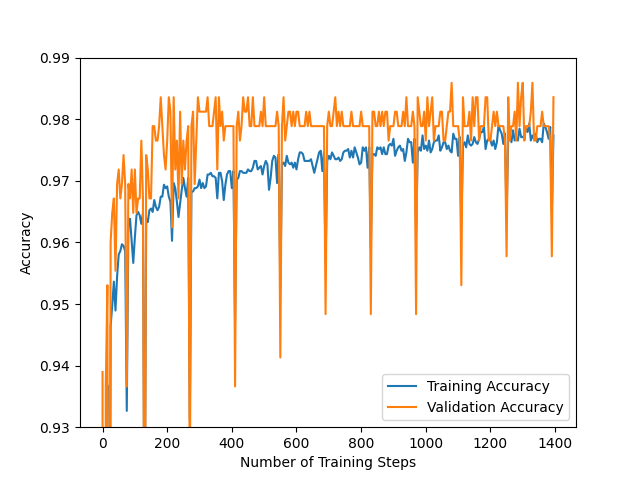
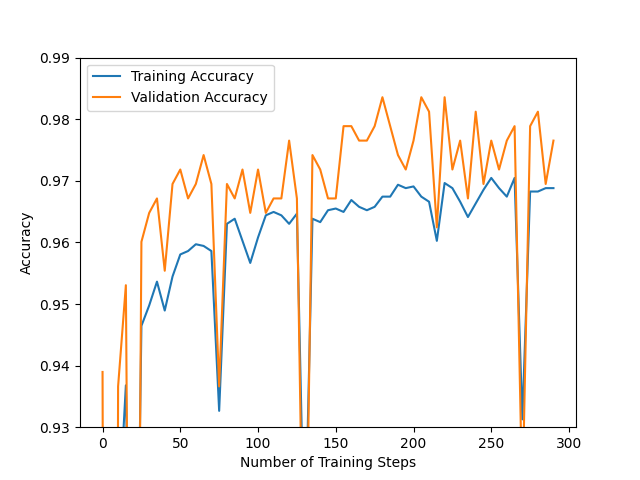
implemented earliy stopping

diff --git a/assignment1/trainer.py b/assignment1/trainer.py
@@ -89,6 +89,20 @@ class BaseTrainer:
                     val_history["accuracy"][global_step] = accuracy_val
 
                     # TODO (Task 2d): Implement early stopping here.
+                    new_dict = dict(val_history["loss"])
+                    del new_dict[global_step]
+                    #print("NEW VAL")
+                    if global_step == 0:
+                        es_counter = 0
+                    elif val_history["loss"][global_step] < min(new_dict.values()):
+                        es_counter = 0
+                        #print("RESET")
+                    else:
+                        es_counter += 1
+                        #print(es_counter)
+                        if es_counter >= 10:
+                            print("ES at epoch nr. " + str(epoch))
+                            return train_history, val_history
                     # You can access the validation loss in val_history["loss"]
                 global_step += 1
         return train_history, val_history

diff --git a/assignment1/task2.py b/assignment1/task2.py
@@ -17,7 +17,6 @@ def calculate_accuracy(X: np.ndarray, targets: np.ndarray, model: BinaryModel) -
     """
     # TODO Implement this function (Task 2c)
     predictions = np.round(model.forward(X))
-    print(predictions==targets)
     correct_predictions = np.sum(predictions == targets)
     accuracy = correct_predictions/len(targets)
     return accuracy
@@ -70,7 +69,7 @@ class LogisticTrainer(BaseTrainer):
 
 if __name__ == "__main__":
     # hyperparameters DO NOT CHANGE IF NOT SPECIFIED IN ASSIGNMENT TEXT
-    num_epochs = 50
+    num_epochs = 500
     learning_rate = 0.05
     batch_size = 128
     shuffle_dataset = False
